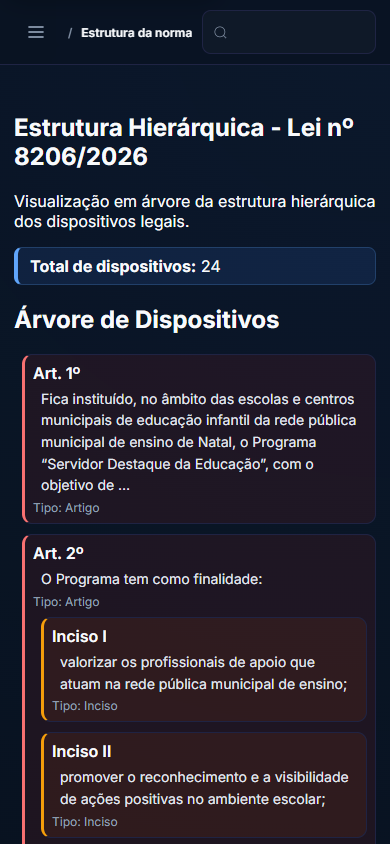
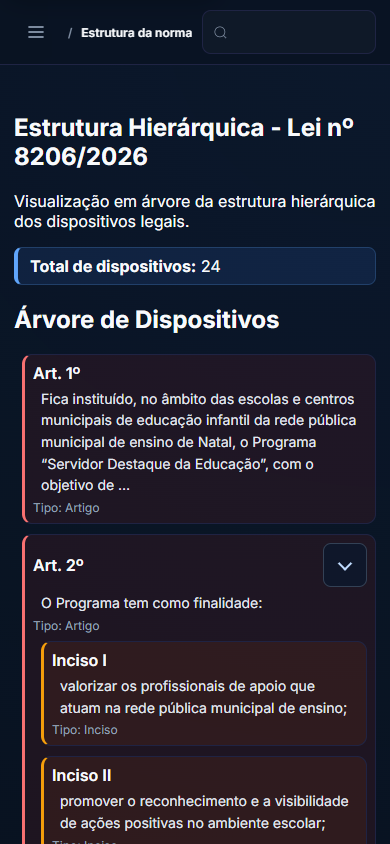
ui(normas): make device tree keyboard operable

diff --git a/src/apps/core/static/js/jurix-legal-tree.js b/src/apps/core/static/js/jurix-legal-tree.js
@@ -1,0 +1,105 @@
+(() => {
+    'use strict';
+
+    const tree = document.querySelector('[role="tree"]');
+    if (!tree) return;
+
+    const items = () => Array.from(tree.querySelectorAll('[role="treeitem"]'));
+    const visibleItems = () => items().filter((item) => !item.closest('[role="group"][hidden]'));
+    const childGroup = (item) => Array.from(item.children)
+        .find((child) => child.classList.contains('tree-node-children')) || null;
+    const toggleButton = (item) => item.querySelector(':scope > .node-header [data-tree-toggle]');
+    const itemLabel = (item) => item.querySelector(':scope > .node-header .node-title')?.textContent.trim() || 'dispositivo';
+
+    const updateExpanded = (item, expanded) => {
+        const group = childGroup(item);
+        const button = toggleButton(item);
+        if (!group || !button) return false;
+
+        group.hidden = !expanded;
+        item.setAttribute('aria-expanded', String(expanded));
+        button.setAttribute('aria-expanded', String(expanded));
+        button.setAttribute('aria-label', `${expanded ? 'Recolher' : 'Expandir'} ${itemLabel(item)}`);
+        return true;
+    };
+
+    const focusItem = (item) => {
+        if (!item) return;
+        items().forEach((candidate) => candidate.setAttribute('tabindex', candidate === item ? '0' : '-1'));
+        item.focus();
+    };
+
+    const firstChild = (item) => childGroup(item)?.querySelector(':scope > [role="treeitem"]') || null;
+    const parentItem = (item) => item.parentElement.closest('[role="treeitem"]');
+
+    items().forEach((item) => {
+        const group = childGroup(item);
+        if (group) updateExpanded(item, !group.hidden);
+    });
+    const initialItem = visibleItems()[0];
+    if (initialItem) initialItem.setAttribute('tabindex', '0');
+
+    tree.addEventListener('click', (event) => {
+        const button = event.target.closest('[data-tree-toggle]');
+        if (!button || !tree.contains(button)) return;
+        const item = button.closest('[role="treeitem"]');
+        const expanded = item?.getAttribute('aria-expanded') === 'true';
+        if (item && updateExpanded(item, !expanded)) focusItem(item);
+    });
+
+    tree.addEventListener('keydown', (event) => {
+        const current = event.target.closest('[role="treeitem"]');
+        if (!current || !tree.contains(current)) return;
+
+        const visible = visibleItems();
+        const index = visible.indexOf(current);
+        const group = childGroup(current);
+        const isExpanded = current.getAttribute('aria-expanded') === 'true';
+
+        switch (event.key) {
+        case 'ArrowDown':
+            event.preventDefault();
+            focusItem(visible[Math.min(index + 1, visible.length - 1)]);
+            break;
+        case 'ArrowUp':
+            event.preventDefault();
+            focusItem(visible[Math.max(index - 1, 0)]);
+            break;
+        case 'Home':
+            event.preventDefault();
+            focusItem(visible[0]);
+            break;
+        case 'End':
+            event.preventDefault();
+            focusItem(visible[visible.length - 1]);
+            break;
+        case 'ArrowRight':
+            if (!group) break;
+            event.preventDefault();
+            if (!isExpanded) updateExpanded(current, true);
+            else focusItem(firstChild(current));
+            break;
+        case 'ArrowLeft':
+            if (group && isExpanded) {
+                event.preventDefault();
+                updateExpanded(current, false);
+            } else {
+                const parent = parentItem(current);
+                if (parent) {
+                    event.preventDefault();
+                    focusItem(parent);
+                }
+            }
+            break;
+        case 'Enter':
+        case ' ':
+            if (group && !event.target.closest('[data-tree-toggle]')) {
+                event.preventDefault();
+                updateExpanded(current, !isExpanded);
+            }
+            break;
+        default:
+            break;
+        }
+    });
+})();

diff --git a/src/apps/core/static/css/jurix-legacy-shell.css b/src/apps/core/static/css/jurix-legacy-shell.css
@@ -51,6 +51,14 @@ footer p { margin-bottom: var(--jurix-space-1); }
 .tree-node.level-2 { border-left-color: var(--figma-green); background: color-mix(in srgb, var(--figma-green-deep) 18%, transparent); }
 .tree-node.level-3 { border-left-color: var(--figma-blue-light); background: color-mix(in srgb, var(--figma-blue-deep) 18%, transparent); }
 .node-header { font-weight: 600; color: var(--figma-text-white); margin-bottom: 5px; }
+.tree-node[aria-expanded] > .node-header { display: flex; align-items: center; gap: 10px; }
+.tree-node[aria-expanded] > .node-header .node-title { min-width: 0; flex: 1; }
+.tree-node-toggle { display: inline-grid; width: 36px; min-width: 36px; height: 36px; place-items: center; padding: 0; border: 1px solid var(--figma-border-strong); border-radius: 8px; background: var(--figma-bg-button); color: var(--figma-blue-soft); cursor: pointer; transition: background-color var(--jurix-motion-fast), border-color var(--jurix-motion-fast); }
+.tree-node-toggle:hover { border-color: var(--figma-blue-light); background: var(--figma-source-hover); }
+.tree-node-toggle:focus-visible { outline: 2px solid var(--figma-blue-light); outline-offset: 2px; }
+.tree-node-toggle > span { width: 8px; height: 8px; border-right: 2px solid currentColor; border-bottom: 2px solid currentColor; transform: rotate(45deg) translate(-1px, -1px); transition: transform var(--jurix-motion-fast); }
+.tree-node-toggle[aria-expanded="false"] > span { transform: rotate(-45deg) translate(-1px, -1px); }
+.tree-node-children[hidden] { display: none; }
 .node-text { color: var(--figma-text-body); font-size: 14px; line-height: 1.55; padding-left: 16px; }
 .node-meta { font-size: 12px; color: var(--figma-text-muted); margin-top: 4px; }
 @media (max-width:860px) { .compare-container { grid-template-columns: 1fr; } }
@@ -63,4 +71,4 @@ footer p { margin-bottom: var(--jurix-space-1); }
   .compare-diff-row > code { min-width: 0; padding: 9px 10px; border: 1px solid var(--figma-border); border-radius: 8px; background: var(--figma-bg-root) !important; }
   .compare-diff-row > code::before { content: attr(data-label) " · linha " attr(data-line); display: block; margin-bottom: 6px; color: var(--figma-text-muted); font: 700 9px/1.3 Inter, system-ui, sans-serif; letter-spacing: .08em; text-transform: uppercase; }
 }
-@media (max-width:640px) { .tree-node { margin-left:8px; padding: 8px; } .tree-node-children { margin-top: 8px; } .node-text { padding-left: 8px; } }
+@media (max-width:640px) { .tree-node { margin-left:8px; padding: 8px; } .tree-node-children { margin-top: 8px; } .node-text { padding-left: 8px; } .tree-node-toggle { width: 44px; min-width: 44px; height: 44px; } }

diff --git a/src/apps/legislation/templates/legislation/tree_node.html b/src/apps/legislation/templates/legislation/tree_node.html
@@ -1,6 +1,11 @@
-<div id="dispositivo-{{ node.dispositivo.pk }}" class="tree-node level-{{ level }}" role="treeitem" aria-level="{{ level|add:1 }}" aria-label="{{ node.dispositivo }}" tabindex="-1">
+<div id="dispositivo-{{ node.dispositivo.pk }}" class="tree-node level-{{ level }}" role="treeitem" aria-level="{{ level|add:1 }}" aria-label="{{ node.dispositivo }}" tabindex="-1"{% if node.children %} aria-expanded="true"{% endif %}>
     <div class="node-header">
-        {{ node.dispositivo }}
+        <span class="node-title">{{ node.dispositivo }}</span>
+        {% if node.children %}
+        <button class="tree-node-toggle" type="button" data-tree-toggle aria-expanded="true" aria-label="Recolher {{ node.dispositivo }}" tabindex="-1">
+            <span aria-hidden="true"></span>
+        </button>
+        {% endif %}
     </div>
     <div class="node-text">
         {{ node.dispositivo.texto|truncatewords:30 }}
@@ -10,7 +15,7 @@
     </div>
     
     {% if node.children %}
-    <div class="tree-node-children">
+    <div class="tree-node-children" role="group">
         {% for child in node.children %}
             {% include 'legislation/tree_node.html' with node=child level=level|add:1 %}
         {% endfor %}

diff --git a/src/apps/legislation/templates/legislation/norma_tree.html b/src/apps/legislation/templates/legislation/norma_tree.html
@@ -1,12 +1,16 @@
 {% extends 'legislation/workspace/base.html' %}
+{% load static %}
 
 {% block title %}Estrutura Hierárquica - {{ norma.get_tipo_display_name }} nº {{ norma.numero }}/{{ norma.ano }}{% endblock %}
 {% block section_name %}Estrutura da norma{% endblock %}
 {% block topbar %}{% include 'legislation/workspace/_topbar.html' with topbar_section='Estrutura da norma' %}{% endblock %}
 
 {% block extra_css %}
-{% load static %}
-<link rel="stylesheet" href="{% static 'css/jurix-legacy-shell.css' %}">
+<link rel="stylesheet" href="{% static 'css/jurix-legacy-shell.css' %}?v=20260929-tree-interactions1">
+{% endblock %}
+
+{% block extra_js %}
+<script src="{% static 'js/jurix-legal-tree.js' %}?v=20260929-tree-interactions1" defer></script>
 {% endblock %}
 
 {% block content %}

diff --git a/FRONTEND_LOG.md b/FRONTEND_LOG.md
@@ -804,3 +804,65 @@ tests/js/capture-ui-audit.mjs after` while the local app is running at
 Next action: Continue the full route interaction audit, prioritizing the norm
 detail/timeline and device-tree reading experience; then verify keyboard and
 reduced-motion behavior across the shared shell.
+
+## Cycle 18 — 2026-09-29
+
+Area: Accessible device-tree interaction and responsive affordance.
+
+Goal: Make the normative device tree behave like the ARIA tree widget it
+advertises, including keyboard operation, visible disclosure state, and
+mobile-sized pointer targets.
+
+Observed problems: The real `/normas/3/tree/` accessibility tree exposed
+`role=tree` and `role=treeitem`, but all items were `tabindex=-1`; no script
+handled arrow keys, expansion, or collapse. This left the main legal
+hierarchy unusable from the keyboard and misleading to assistive technology.
+
+Changes made: Added roving focus and Arrow Up/Down/Left/Right plus Home/End
+navigation, Enter/Space expansion, and a visible disclosure control for nodes
+with children. Parent and control `aria-expanded`/labels remain synchronized;
+child groups are hidden when collapsed. Disclosure targets are 44×44px on
+mobile, use existing design tokens and global reduced-motion rules, and do
+not remove device IDs or deep-link targets. No backend or API changes.
+
+Browser validation: Opened the actual Django tree in Chromium; the AX tree now
+reports expandable rows and controls such as “Recolher Art. 2º”. Used Arrow
+Down to focus Art. 2º, Enter to collapse it (its child rows disappear from the
+AX tree and the control changes to “Expandir”), and Arrow Right to restore its
+children. The selected article retains a visible focus ring. The mobile
+before/after capture shows the 44px chevron aligned with the article heading.
+All 30 after-capture views across ten routes at 1440×900, 1280×800, and
+390×844 returned HTTP 200 with visible main content, no horizontal overflow,
+no console errors, no failed requests, and matching filenames to `before/`.
+
+Tests: Full JavaScript suite passed, including 12 real Chromium cases. The new
+tree interaction test covers keyboard navigation, disclosure state, pointer
+activation, mobile target dimensions, reduced-motion duration, and browser
+errors. Full Python suite: 652 passed, 6 skipped, 7 existing Django setting
+override warnings. `manage.py check`, design-token gate, JavaScript syntax,
+route-manifest audit, and `git diff --check` passed.
+
+Console: No application errors on the live route or in the tree interaction
+test. Expected quota-failure logging remains in its dedicated fault-injection
+JavaScript test.
+
+Responsive validation: Tree route remains within 390px document width; the
+disclosure button is 44×44px at 390px and 36×36px on desktop. Nested content
+retains indentation and can be progressively hidden to shorten long statutes.
+
+Visual score: Device tree 8.8/10 after this cycle (estimated 7.7/10 before).
+The hierarchy now communicates depth, focus and expanded/collapsed state;
+copy quality in OCR-derived text remains a corpus limitation rather than a UI
+change.
+
+Regressions: None in the full 652-test Python suite, full JavaScript suite, or
+the 18 Django workspace-route tests. Existing deep-link IDs and the visual
+tree remain intact.
+
+Screenshots: Replaced only the `after/` route images and manifest for this
+cycle; `before/` remains the fixed baseline from before the comparison/tree
+improvements. The two directories still have matching 30-image sets.
+
+Next action: Audit keyboard traversal, visible focus, Escape behavior and
+reduced-motion on the remaining shell controls, then exercise real assistant,
+history, collections and settings interactions before the final audit.
